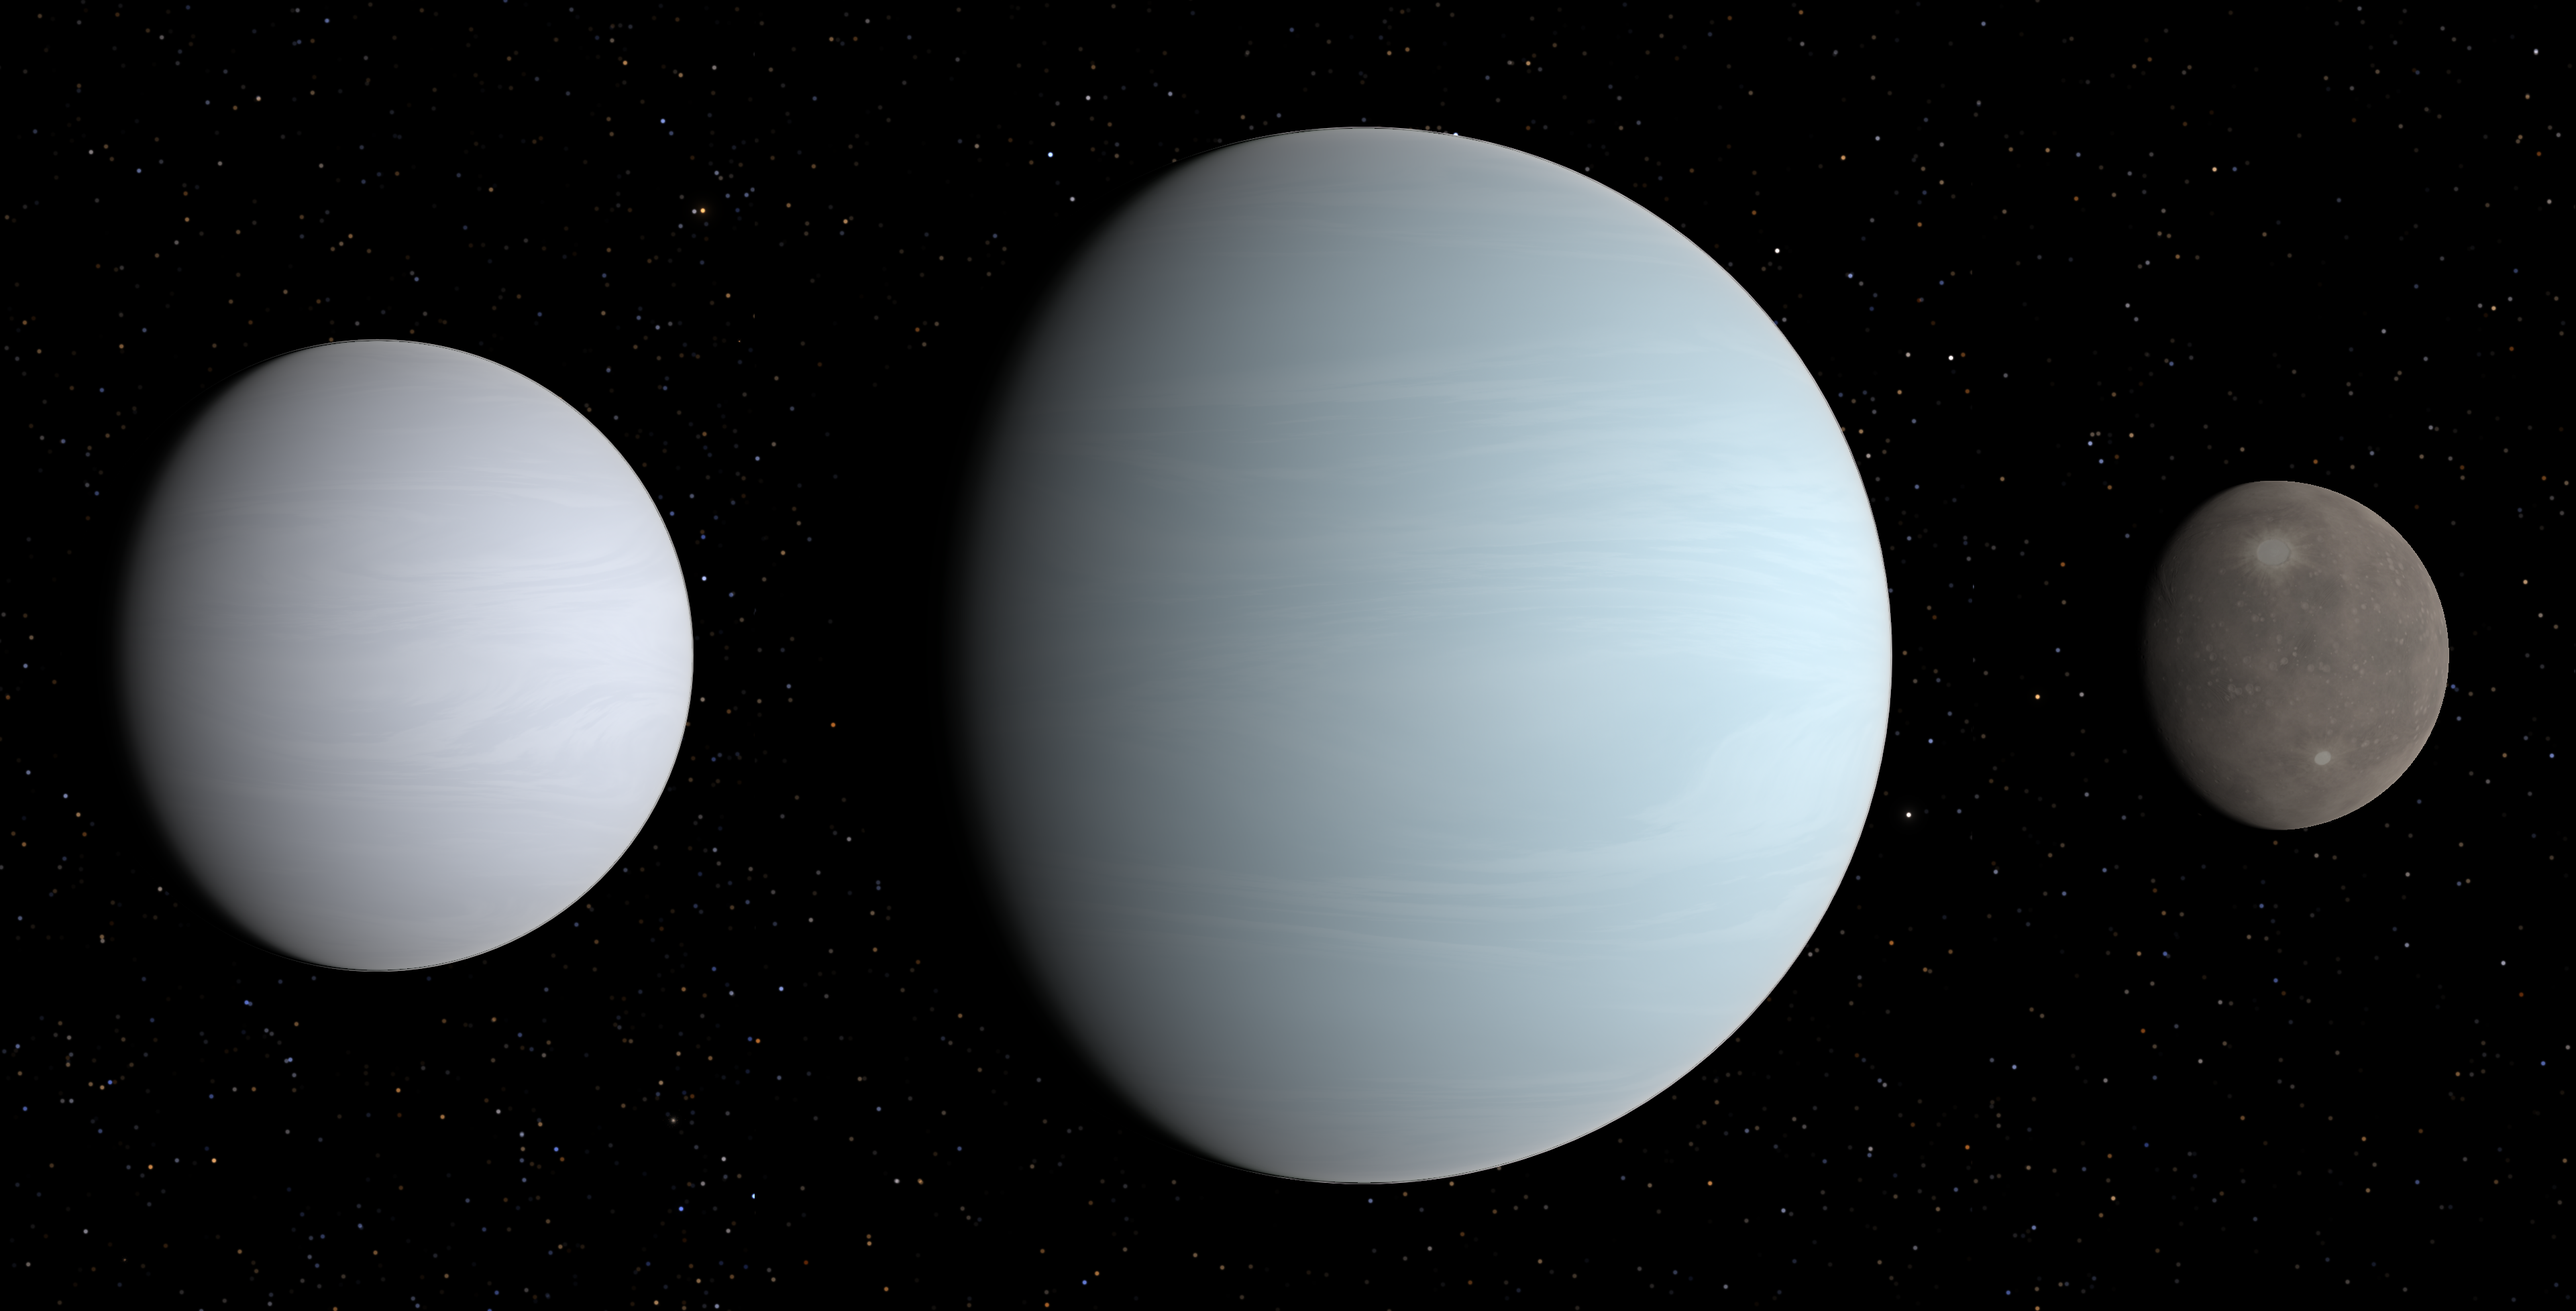
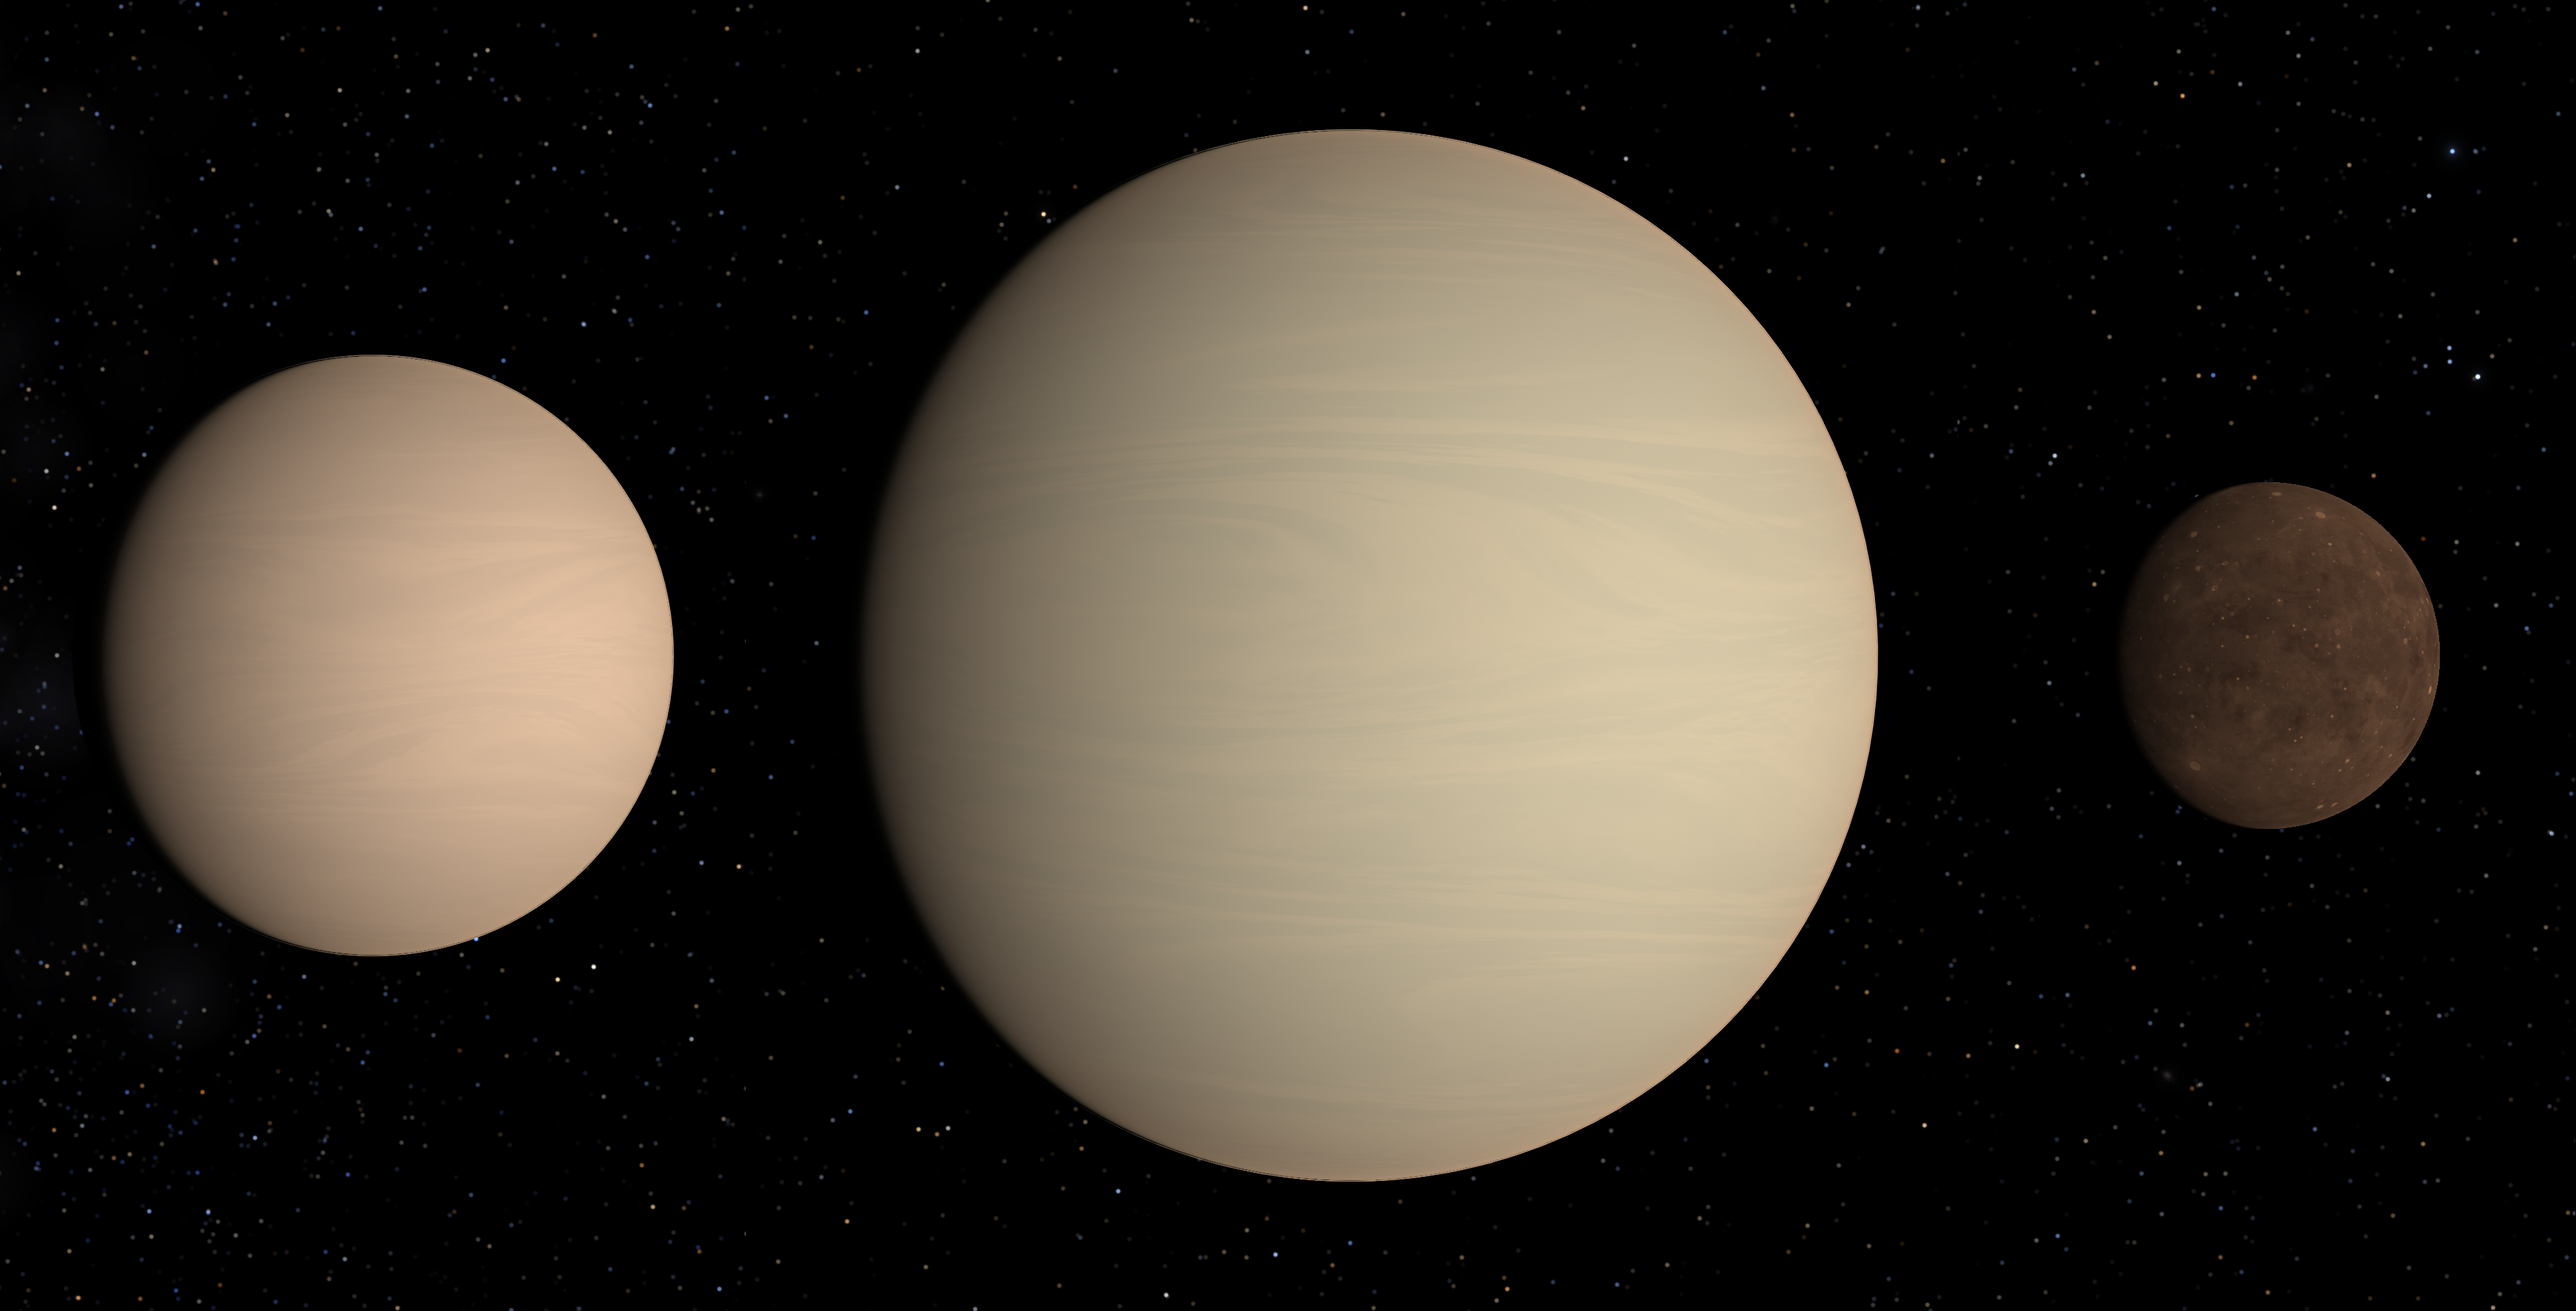
G 192-15 & others

diff --git a/nearby.html b/nearby.html
@@ -17,7 +17,7 @@ If you still want to download all of these addons at once, they're available in 
 <p>Many of these addons <b>require</b> an up-to-date nearstars.stc, which you can get from <a href="https://github.com/CelestiaProject/CelestiaContent/blob/master/data/nearstars.stc">GitHub</a>. However, no specific exoplanet catalog is required.
 While links to <a href="https://celestia.mobi/">celestia.mobi</a> are provided, keep in mind that the addons available there aren't always identical to the "Download" links.
 This is always a work in progress, and some systems may be listed but not have download links yet.</p>
-<p><b>See also:</b> <b>pedro_jg</b>'s <a href="https://celestiaproject.space/forum/viewtopic.php?f=23&t=23911">brown dwarf catalog</a>, which includes 39 brown dwarfs within 10 parsecs. Currently, addons for two of these objects are also available here: 2MASS J0348-6022 and WISE J1828+2650, which are compatible with the catalog since they use <i>Replace</i> statements.</p>
+<p><b>See also:</b> <b>pedro_jg</b>'s <a href="https://celestiaproject.space/forum/viewtopic.php?f=23&t=23911">brown dwarf catalog</a>, which includes 51 brown dwarfs (and ultracool stars) within 10 parsecs. Currently, addons for three of these objects are also available here: 2MASS J0348-6022, WISE J1217+1626, and WISE J1828+2650, which are compatible with the catalog since they use <i>Replace</i> statements.</p>
 <p>Jump to:</p>
 <ul><li><a href="#011">10 light-years</a></li>
 <li><a href="#099">20 light-years</a></li>
@@ -116,7 +116,7 @@ Authors: <b>fyr02</b> (<a href="https://celestiaproject.space/forum/viewtopic.ph
 <p><b>12.0 ly | 1 star | 3 planets</b><br>
 GJ 1061 is a red dwarf star which hosts three known planets, all of which are likely terrestrial. The outer planet (d) orbits within the habitable zone, while the middle planet (c) is near the inner edge.<br>
 Authors: <b>SevenSpheres</b><br>
-<b><a href="https://drive.google.com/file/d/14yo7sfSB1YcjD7nV-rdWYOEkczuUEE3I/view">Download</a></b> | <a href="https://celestia.mobi/resources/item?item=31422A15-D5D1-A3C2-1B13-69C4AE1BE153">celestia.mobi</a> - <span class="green">Last updated 2023-07-29</span></p>
+<b><a href="https://drive.google.com/file/d/14yo7sfSB1YcjD7nV-rdWYOEkczuUEE3I/view">Download</a></b> | <a href="https://celestia.mobi/resources/item?item=31422A15-D5D1-A3C2-1B13-69C4AE1BE153">celestia.mobi</a> - <span class="green">Last updated 2025-04-25</span></p>
 <a href="files/gj1061.png"><img src="files/gj1061_thumb.png" width="400"></a>
 <h2 id="023">YZ Ceti</h2>
 <p><b>12.1 ly | 1 star | 3 planets</b><br>
@@ -256,7 +256,7 @@ Authors: <b>Gurren Lagann</b> (<a href="https://celestiaproject.space/forum/view
 <p><b>20.5 ly | 1 star | 3 planets</b><br>
 Gliese 581 has had a complicated history, with up to 6 planets being proposed at one point, some of them described as potentially habitable. More recently, several studies have shown that the signals corresponding to the three outer planets are artifacts of stellar activity, and the current consensus is that the system has only three planets.<br>
 Authors: <b>MrSpace43</b> (<a href="https://celestiaproject.space/forum/viewtopic.php?f=23&t=20352">original release</a>), <b>John van Vliet</b> (<a href="http://www.celestiamotherlode.net/addon/addon_1561.html">original release</a>)<br>
-<b><a href="https://drive.google.com/file/d/1SCDZPiQpkLv-3XZjSFt5qHYgcRDImqsK/view">Download</a></b> | <a href="https://celestia.mobi/resources/item?item=44EECC3A-E7FE-A442-617D-D8A6427BA967">celestia.mobi</a> - <span class="green">Last updated 2024-09-08</span></p>
+<b><a href="https://drive.google.com/file/d/1SCDZPiQpkLv-3XZjSFt5qHYgcRDImqsK/view">Download</a></b> | <a href="https://celestia.mobi/resources/item?item=44EECC3A-E7FE-A442-617D-D8A6427BA967">celestia.mobi</a> - <span class="green">Last updated 2025-04-25</span></p>
 <a href="files/gj581.png"><img src="files/gj581_thumb.png" width="400"></a>
 <h2 id="103">Gliese 338</h2>
 <p><b>20.7 ly | 2 stars | 1 planet</b><br>
@@ -385,7 +385,7 @@ Authors: <b>Gurren Lagann</b> (<a href="https://celestiaproject.space/forum/view
 <p><b>30.4 ly | 2 brown dwarfs</b><br>
 WISE J1217+1626 is a binary brown dwarf system, consisting of two cool brown dwarfs about 20-30 times the mass of Jupiter. The lower-mass brown dwarf (WISE J1217+1626 B) is listed as a "planet" in the NASA Exoplanet Archive.<br>
 Authors: <b>Gurren Lagann</b> (<a href="https://celestiaproject.space/forum/viewtopic.php?p=159956#p159956">original release</a>), <b>SevenSpheres</b><br>
-<b><a href="https://drive.google.com/file/d/1apqVOnSCMGmMowMq0UtNNwQewqXqLosP/view">Download</a></b> | <a href="https://celestia.mobi/resources/item?item=137A2B82-2B57-4C3A-BA3D-A7B31EAD8245">celestia.mobi</a> - <span class="green">Last updated 2022-11-26</span></p>
+<b><a href="https://drive.google.com/file/d/1apqVOnSCMGmMowMq0UtNNwQewqXqLosP/view">Download</a></b> | <a href="https://celestia.mobi/resources/item?item=137A2B82-2B57-4C3A-BA3D-A7B31EAD8245">celestia.mobi</a> - <span class="green">Last updated 2025-04-25</span></p>
 <a href="files/wise1217.png"><img src="files/wise1217_thumb.png" width="400"></a>
 <h2 id="283">Añañuca / Gliese 367</h2>
 <p><b>30.7 ly | 1 star | 3 planets</b><br>
@@ -411,6 +411,12 @@ GJ 3512 is a red dwarf star which hosts two known gas giant planets, the inner o
 Authors: <b>Gurren Lagann</b> (<a href="https://celestiaproject.space/forum/viewtopic.php?p=160121#p160121">original release</a>)<br>
 <b><a href="https://drive.google.com/file/d/1qDhYRTZ3RglahJ6wl3MykCLqVrE4VClS/view">Download</a></b> | <a href="https://celestia.mobi/resources/item?item=4CDD38ED-8668-4C69-9330-C09C99E79A38">celestia.mobi</a> - <span class="green">Last updated 2023-05-28</span></p>
 <a href="files/gj3512.png"><img src="files/gj3512_thumb.png" width="400"></a>
+<h2 id="293">GJ 3380 / G 192-15</h2>
+<p><b>31.1 ly | 1 star | 2 planets</b><br>
+G 192-15 (or GJ 3380) is a red dwarf star which hosts a hot rocky planet and an eccentric cold Neptune, discovered in 2025.<br>
+Authors: <b>Karistus</b> (<a href="https://celestiaproject.space/forum/viewtopic.php?p=163602#p163602 ">original release</a>)<br>
+<b><a href="https://drive.google.com/file/d/1_aIsR-93j_Why6KNv2f1Z_bWQ6K8iQTy/view">Download</a></b> | <a href="https://celestia.mobi/resources/item?item=71C6D48D-4284-4180-AF4A-517C03627CC5">celestia.mobi</a> - <span class="green">Last updated 2025-04-25</span></p>
+<a href="files/g192-15.png"><img src="files/g192-15_thumb.png" width="400"></a>
 <h2 id="298">Wolf 1069</h2>
 <p><b>31.2 ly | 1 star | 1 planet</b><br>
 Wolf 1069 is a red dwarf star which hosts one known planet, which is likely terrestrial and orbits within the habitable zone.<br>
@@ -433,6 +439,9 @@ Gliese 436 is a red dwarf star which hosts a hot Neptunian planet discovered in 
 Authors: <b>MrSpace43</b> (<a href="https://celestiaproject.space/forum/viewtopic.php?f=23&t=20352">original release</a>), <b>Trolligi</b>, <b>LukeCEL</b><br>
 <b><a href="https://drive.google.com/file/d/1EGTJ5qLRw8VTBZTiImi91RcaSAnOamrO/view">Download</a></b> | <a href="https://celestia.mobi/resources/item?item=96FC5047-E5C2-ECEF-ADAD-A1BB451A6A6D">celestia.mobi</a> - <span class="green">Last updated 2023-07-22</span></p>
 <a href="files/gj436b.png"><img src="files/gj436b_thumb.png" width="400"></a>
+<h2 id="318">GJ 1028 / G 268-110</h2>
+<p><b>31.9 ly | 1 star | 1 planet</b><br>
+G 268-110 (or GJ 1028) is a red dwarf star which hosts a hot terrestrial planet, discovered in 2025.</p>
 <h2 id="322">Gliese 49 & 51</h2>
 <p><b>32.2 ly | 2 stars | 1 planet</b><br>
 Gliese 49 is a red dwarf star forming a wide binary with another red dwarf, Gliese 51. Gliese 49 is host to a warm mini-Neptune mass planet that completes an orbit every two weeks.<br>
@@ -511,10 +520,10 @@ Authors: <b>Trolligi</b> (<a href="https://celestiaproject.space/forum/viewtopic
 <li><b>56.6 ly | Iota Horologii:</b> <a href="https://celestiaproject.space/forum/viewtopic.php?p=160179#p160179">Gurren Lagann</a> (<a href="https://celestia.mobi/resources/item?item=D2C9D07B-A865-4BF6-8A74-4045DEB34ED7">celestia.mobi</a>)</li>
 <li><b>57.1 ly | Rho Coronae Borealis:</b> <a href="https://celestiaproject.space/forum/viewtopic.php?p=157073#p157073">cubicApoc</a> (<a href="https://celestia.mobi/resources/item?item=C9DB986E-7A68-1D50-69E2-C4A7FA336220">celestia.mobi</a>)</li>
 <li><b>57.4 ly | 59 Virginis:</b> <a href="https://celestiaproject.space/forum/viewtopic.php?f=23&t=19978">SevenSpheres</a> (part of old "ExoplanetUpdates"; <a href="https://celestia.mobi/resources/item?item=2F7268ED-094F-4BFA-DB28-F1889627C2FD">celestia.mobi</a>)</li>
-<li><b>58.0 ly | HIP 38594:</b> (<a href="https://celestiaproject.space/forum/viewtopic.php?p=163540#p163540">Karistus</a>) (<a href="https://celestia.mobi/resources/item?item=7D8707E3-3944-43A2-B685-D471F6B0951D">celestia.mobi</a>)</li>
+<li><b>58.0 ly | HIP 38594:</b> <a href="https://celestiaproject.space/forum/viewtopic.php?p=163540#p163540">Karistus</a> (<a href="https://celestia.mobi/resources/item?item=7D8707E3-3944-43A2-B685-D471F6B0951D">celestia.mobi</a>)</li>
 <li><b>58.4 ly | 14 Herculis:</b> <a href="https://celestiaproject.space/forum/viewtopic.php?p=158843#p158843">SpaceStalker</a> (<a href="https://celestia.mobi/resources/item?item=0C317A82-2DE1-4F60-BDAF-C50CDDDAF1B4">celestia.mobi</a>)</li>
 <li><b>59.0 ly | 70 Virginis:</b> <a href="https://celestiaproject.space/forum/viewtopic.php?f=6&t=17805">CM1215</a>, <a href="https://celestiaproject.space/forum/viewtopic.php?p=157069#p157069">Gurren Lagann</a> (<a href="https://celestia.mobi/resources/item?item=DEEDE7E5-DB2C-BECA-9C88-9CBDA5F814D6">celestia.mobi</a>)</li>
-<li><b>59.4 ly | LHS 1478:</b> (<a href="https://celestiaproject.space/forum/viewtopic.php?p=163535#p163535">Karistus</a>) (<a href="https://celestia.mobi/resources/item?item=EF35F58A-4528-4AA8-9600-5E2455547C52">celestia.mobi</a>)</li>
+<li><b>59.4 ly | LHS 1478:</b> <a href="https://celestiaproject.space/forum/viewtopic.php?p=163535#p163535">Karistus</a> (<a href="https://celestia.mobi/resources/item?item=EF35F58A-4528-4AA8-9600-5E2455547C52">celestia.mobi</a>)</li>
 <li><b>59.6 ly | HD 154088:</b> <a href="https://celestiaproject.space/ru/forum/viewtopic.php?f=19&t=1018">Vision</a> (<a href="https://celestia.mobi/resources/item?item=46838C2F-509C-08CE-5238-7B46C95F3154">celestia.mobi</a>)</li>
 <li><b>59.6 ly | Pi Mensae:</b> <a href="https://celestiaproject.space/forum/viewtopic.php?p=156266#p156266">SevenSpheres</a> (<a href="https://celestia.mobi/resources/item?item=45E958E2-8F0B-5447-60CB-6482BBA727C7">celestia.mobi</a>)</li>
 <li><b>59.7 ly | HD 87883:</b> <a href="https://celestiaproject.space/forum/viewtopic.php?p=161187#p161187">Pan-STARRS</a> (<a href="https://celestia.mobi/resources/item?item=E54BA4BF-C4EC-40A2-9ADD-A8EF2C6CFAF1">celestia.mobi</a>)</li>
@@ -546,7 +555,7 @@ Authors: <b>Trolligi</b> (<a href="https://celestiaproject.space/forum/viewtopic
 <li><b>77.5 ly | Gliese 7:</b> <a href="https://celestia.mobi/resources/item?item=27876447-2C24-46E1-A6A3-41BCB32A45CF">Karistus (celestia.mobi)</a></li>
 <li><b>78.4 ly | HD 134060:</b> <a href="https://celestia.mobi/resources/item?item=BB322504-233E-4467-9E7A-EA827E8018B8">Galaxy-Leaper (celestia.mobi)</a></li>
 <li><b>78.7 ly | HIP 70849:</b> <a href="https://celestiaproject.space/forum/viewtopic.php?p=154739#p154739">Trolligi</a> (<a href="https://celestia.mobi/resources/item?item=7A1BCE0B-1EB2-3381-5569-D9A8C7707F0E">celestia.mobi</a>)</li>
-<li><b>80.6 ly | TOI-1468:</b> (<a href="https://celestiaproject.space/forum/viewtopic.php?p=163530#p163530">Karistus</a>) (<a href="https://celestia.mobi/resources/item?item=8115A14E-4773-43C2-A62F-440E1A37FBA8">celestia.mobi</a>)</li>
+<li><b>80.6 ly | TOI-1468:</b> <a href="https://celestiaproject.space/forum/viewtopic.php?p=163530#p163530">Karistus</a> (<a href="https://celestia.mobi/resources/item?item=8115A14E-4773-43C2-A62F-440E1A37FBA8">celestia.mobi</a>)</li>
 <li><b>80.7 ly | WD 1856+534:</b> <a href="https://celestiaproject.space/forum/viewtopic.php?p=151526#p151526">SpaceStalker</a> (<a href="https://celestia.mobi/resources/item?item=47F1CA11-1AD8-B598-1D56-036205D845C6">celestia.mobi</a>)</li>
 <li><b>82.1 ly | L 168-9:</b> <a href="https://celestiaproject.space/forum/viewtopic.php?p=161311#p161311">Trolligi</a> (<a href="https://celestia.mobi/resources/item?item=71361762-3625-4E90-A8C6-2BA14BE3B665">celestia.mobi</a>)</li>
 <li><b>85.4 ly | 23 Librae:</b> <a href="https://celestiaproject.space/forum/viewtopic.php?p=158903#p158903">SpaceStalker</a> (<a href="https://celestia.mobi/resources/item?item=AF9B3F9E-600A-49A4-A98C-D8ED3EB1B0D9">celestia.mobi</a>)</li>
